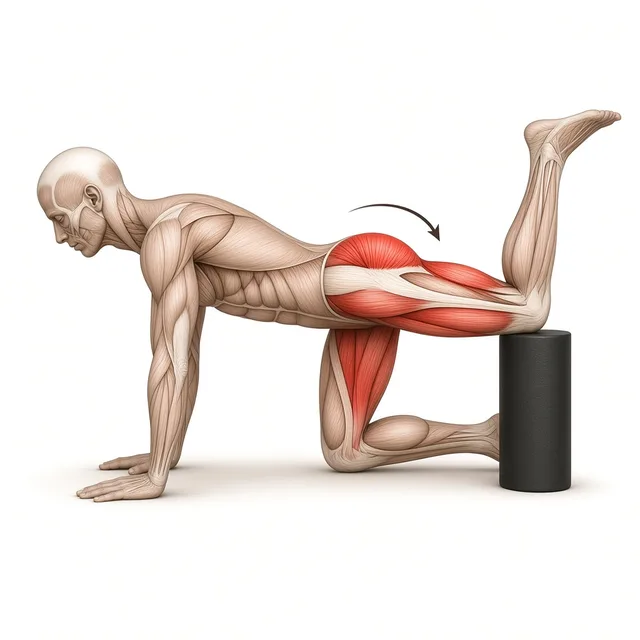
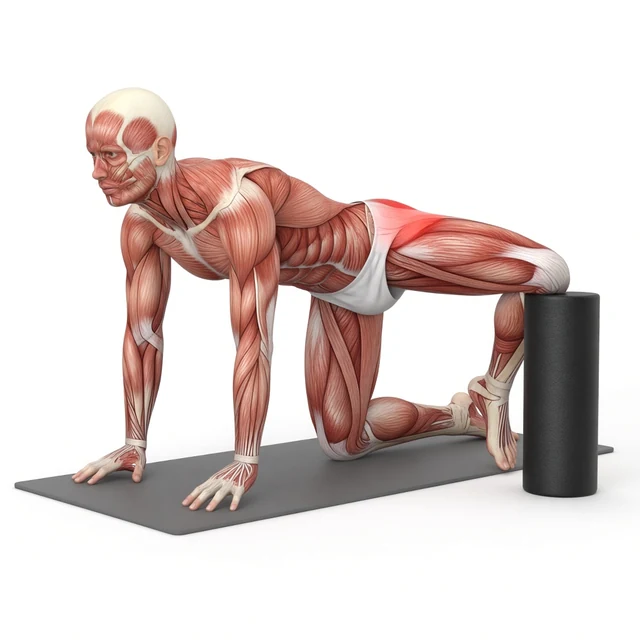
Update 2026-11-09

diff --git a/mobility.js b/mobility.js
@@ -1,11 +1,11 @@
-/* Voccola Gym Log – Hüft-Beweglichkeit (v1.7.25). Eigene Daten in localStorage 'vgl-mob', berührt Trainingsdaten nicht. */
+/* Voccola Gym Log – Hüft-Beweglichkeit (v1.7.26). Eigene Daten in localStorage 'vgl-mob', berührt Trainingsdaten nicht. */
 'use strict';
 (function () {
 const KEY = 'vgl-mob';
 const ld = () => { try { return Object.assign({ today: null, history: [] }, JSON.parse(localStorage.getItem(KEY) || '{}')); } catch (_) { return { today: null, history: [] }; } };
 const sv = d => { try { localStorage.setItem(KEY, JSON.stringify(d)); } catch (_) { } };
 const tk = () => dkey();
-function day() { const d = ld(); if (!d.today || d.today.date !== tk()) { d.today = { date: tk(), done: {}, sets: {}, log: {} }; sv(d); } return d; }
+function day() { const d = ld(); if (!d.today || d.today.date !== tk()) { d.today = { date: tk(), done: {}, sets: {}, log: {}, extra: { m: [], a: [] } }; sv(d); } if (!d.today.extra) d.today.extra = { m: [], a: [] }; if (!Array.isArray(d.today.extra.m)) d.today.extra.m = []; if (!Array.isArray(d.today.extra.a)) d.today.extra.a = []; return d; }
 
 /* ---------- Strichfiguren ---------- */
 const FG = '#ececee', FAR = '#8d8d94', ARW = '#D4AF37', GR = '#3a3a40';
@@ -103,7 +103,7 @@ const EX = [
     steps: ['Rückenlage, Arme senkrecht zur Decke, Beine angehoben: Hüfte und Knie 90°.', 'Unteren Rücken sanft in den Boden drücken – er bleibt die ganze Zeit flach.', 'Ausatmen: rechten Arm nach hinten und linkes Bein nach vorn lang strecken, knapp über dem Boden.', 'Zurück in die Mitte, Seite wechseln.'],
     cues: ['Rücken flach am Boden – das ist die eigentliche Übung', 'Langsam ausatmen beim Strecken', 'Nur so weit strecken, wie der Rücken unten bleibt'],
     err: ['Hohlkreuz beim Strecken', 'Luft anhalten', 'Zu schnell, Schwung'] },
-  { id: 'rolle', img: 'rollschien', n: 'Bein über die Rolle', sub: 'Sitzend · Blackroll · Hüfte aktiv & kontrolliert', dose: '10 Wdh. pro Seite', t: 'reps', sets: 1, reps: 10, ps: true,
+  { id: 'rolle', n: 'Bein über die Rolle', sub: 'Sitzend · Blackroll · Hüfte aktiv & kontrolliert', dose: '10 Wdh. pro Seite', t: 'reps', sets: 1, reps: 10, ps: true,
     steps: ['Aufrecht sitzen (Stuhl oder Boden), die Blackroll liegt quer vor dem Fuß am Boden.', 'Oberkörper bleibt aufrecht, Hände stützen seitlich oder an den Oberschenkeln.', 'Ein Bein kontrolliert anheben und über die Blackroll führen, ohne Schwung.', 'Langsam wieder zurückführen. 10 Wdh., dann Seite wechseln. Fortgeschritten: Rolle höher stellen (hochkant).'],
     cues: ['Rücken lang, Bauch leicht fest – das Becken bleibt ruhig', 'Langsam heben, langsam zurück', 'Fortgeschritten: Rolle höher stellen', 'Kein Vorbeugen – bleib aufrecht'],
     err: ['Mit Schwung über die Rolle schleudern', 'Oberkörper kippt zur Seite oder nach hinten', 'Rundrücken'] }
@@ -115,7 +115,7 @@ const EVE = [
   { id: 'tuer', eve: 1, n: 'Seitdehnung im Türrahmen', sub: 'Abend · seitliche Rumpfmuskulatur, Hüftabduktoren, Außenhüfte', dose: '3×60 s links, 2×60 s rechts', t: 'time', sets: 3, setsL: 3, setsR: 2, secs: 60, ps: true,
     steps: ['Aufwärmen: beide Hände seitlich im Türrahmen einspannen, 5–8 langsame Hüftkreise bzw. Pendeln links-rechts.', 'Im Türrahmen stehen, Beine überkreuzen (für die Dehnung der linken Seite: rechtes Bein vor das linke).', 'Linke Hand greift oben an den Türrahmen.', 'Hüfte langsam nach links/außen rausschieben und den Oberkörper zur Gegenseite ziehen, bis Zug in der linken Flanke, im unteren Rücken und an der Außenhüfte entsteht.', 'Ruhig in die Flanke atmen, 60 s halten. Seite wechseln.'],
     cues: ['Nicht nach vorne kippen – Rumpf bleibt in einer Ebene', 'Bauch leicht fest', 'Nur bis angenehmer Zug', 'Kein Kribbeln/Ausstrahlen ins Bein (Bandscheibe) – sonst lockerer'], err: ['Ins Hohlkreuz fallen', 'Schulter hochziehen', 'Ruckartig wippen'] },
-  { id: 'couch', eve: 1, img: 'hipflex', n: 'Couch Stretch', sub: 'Abend · Hüftbeuger & Quadrizeps', dose: '1×2 min pro Seite', t: 'time', sets: 1, secs: 120, ps: true,
+  { id: 'couch', eve: 1, n: 'Couch Stretch', sub: 'Abend · Hüftbeuger & Quadrizeps', dose: '1×2 min pro Seite', t: 'time', sets: 1, secs: 120, ps: true,
     steps: ['Knie auf einer weichen Unterlage (Kissen/Matte) vor dem Sofa absetzen, vorderer Fuß flach, Knie ca. 90°.', 'Den hinteren Fuß erhöht aufs Sofa legen, Schienbein an der Lehne.', 'Gesäß der hinteren Seite fest anspannen und das Becken leicht nach hinten kippen, dann Becken nach vorn schieben, bis vorne an Hüfte und Oberschenkel ein Zug kommt.', 'Oberkörper aufrecht, 2 min ruhig atmen. Seite wechseln.'],
     cues: ['Dehnung vorne an Hüfte und Oberschenkel des hinteren Beins', 'Rippen unten, Bauch leicht fest – nicht ins Hohlkreuz', 'Knie weiter vom Sofa weg = sanfter', 'Nur bis angenehmer Zug – nichts erzwingen'],
     err: ['Ins Hohlkreuz ausweichen', 'Knieschmerz ignorieren', 'Zu aggressiv ins Sofa pressen'] },
@@ -250,7 +250,7 @@ const im = ex => ex.img || ex.id;
 /* ---------- v1.7.15: Tages-Rotation ----------
    Jeder Block hat feste Kern-Übungen (core: 1, täglich) + einen Wechsel-Pool. Aus dem Pool kommen pro Tag k Übungen,
    deterministisch nach Datum (Tag-Nr. × k mod Poolgröße → lückenlos, jede Übung kommt regelmäßig dran). */
-const BLK = { m: { pool: EX, k: 2 }, w: { pool: ROT, k: 3 }, a: { pool: EVE, k: 5 }, f: { pool: FAS, k: 3 } };
+const BLK = { m: { pool: EX, k: 2 }, w: { pool: ROT, k: 3 }, a: { pool: EVE, k: 3 }, f: { pool: FAS, k: 3 } };
 const dayNum = key => { const [y, m, d] = key.split('-').map(Number); return Math.floor(Date.UTC(y, m - 1, d) / 864e5); };
 function lineup(b, key) { const B = BLK[b]; const rot = B.pool.filter(e => !e.core); const n = dayNum(key), m = rot.length;
   if (!m || B.k >= m) return B.pool.slice(); const s0 = (n * B.k) % m; const pick = new Set(Array.from({ length: B.k }, (_, i) => rot[(s0 + i) % m]));
@@ -259,6 +259,18 @@ const isRotToday = (e, b) => b !== 'w' && !e.core;
 const blockOf = e => e.eve ? 'a' : e.fas ? 'f' : e.rot ? 'w' : EX.includes(e) ? 'm' : null;
 // heutige Liste eines Blocks: Tages-Lineup + heute bereits Abgehaktes (z. B. vor dem Update), damit nichts verschwindet
 function todayList(b, d) { const lu = lineup(b, tk()); return lu.concat(BLK[b].pool.filter(e => !lu.includes(e) && d.today.done[e.id])); }
+
+/* ---------- v1.7.26: optionale Zusatzübungen (Morgen/Abend) ----------
+   Extras liegen in d.today.extra.{m|a}; zählen NICHT zum Block-Zähler, werden aber geloggt. */
+const extraPool = b => b === 'm' ? [...EX, ...ROT] : b === 'a' ? [...EVE, ...RET] : [];
+function extrasOf(b, d) { const ids = (d.today.extra && d.today.extra[b]) || []; return ids.map(byId).filter(Boolean); }
+function blockList(b, d) {
+  const base = todayList(b, d); const seen = new Set(base.map(e => e.id));
+  return base.concat(extrasOf(b, d).filter(e => !seen.has(e.id)));
+}
+function planCount(b, d) { return lineup(b, tk()).length; } // Zähler ohne Extras
+function isExtra(ex, b, d) { return !!(d.today.extra && (d.today.extra[b] || []).includes(ex.id)) && !lineup(b, tk()).some(e => e.id === ex.id); }
+
 // Plan eines gespeicherten Tages: neue Einträge haben h.lineup, ältere (vor v1.7.15) bekommen den damaligen Plan
 function planOf(h, b) { if (h.lineup && h.lineup[b]) return h.lineup[b].map(byId).filter(Boolean);
   return b === 'm' ? EX.slice() : b === 'w' ? rotForOld(h.date) : b === 'a' ? EVE.filter(e => e.id !== 'psoasreset' && e.id !== 'kniefersenrock' && e.id !== 'hipflexstand' && e.id !== 'hipwallrot' && e.id !== 'hipwallstep') : FAS.slice(); }
@@ -328,17 +340,23 @@ function markDone(id, val) { const d = day(); if (val) { d.today.done[id] = true
 
 /* ---------- Views ---------- */
 function row(ex, d, i, b) {
-  const ok = !!d.today.done[ex.id];
+  const ok = !!d.today.done[ex.id]; const xtra = (b === 'm' || b === 'a') && isExtra(ex, b, d);
   return `<div class="card mob-row ${ok ? 'ok' : ''}" data-act="go" data-to="#/mob/${ex.id}">
-    <button class="mob-chk ${ok ? 'on' : ''}" data-act="mobChk" data-id="${ex.id}" aria-label="Abhaken">${ok ? '✓' : (ex.eve ? '☾' : ex.fas ? '◎' : ex.rot ? '🔄' : i)}</button>
+    <button class="mob-chk ${ok ? 'on' : ''}" data-act="mobChk" data-id="${ex.id}" aria-label="Abhaken">${ok ? '✓' : (xtra ? '＋' : ex.eve ? '☾' : ex.fas ? '◎' : ex.rot ? '🔄' : i)}</button>
     <div class="mob-thumb"><img class="mob-thumb-img" src="./assets/mob/${im(ex)}.webp" alt="" loading="lazy"></div>
-    <div class="mob-rt"><b>${esc(ex.n)}</b><div class="muted small">${esc(ex.dose)}</div>${isRotToday(ex, b) ? '<div class="mob-rotl">↻ heute im Wechsel</div>' : ''}</div><span class="mob-go">›</span></div>`;
+    <div class="mob-rt"><b>${esc(ex.n)}</b><div class="muted small">${esc(ex.dose)}</div>${xtra ? '<div class="mob-rotl">＋ Zusatz (optional)</div>' : isRotToday(ex, b) ? '<div class="mob-rotl">↻ heute im Wechsel</div>' : ''}</div><span class="mob-go">›</span></div>`;
 }
 function viewList() {
-  const d = day(); const s = stats(); const MT = todayList('m', d), RT = todayList('w', d), ET = todayList('a', d), FT = todayList('f', d);
-  const cnt = l => l.filter(e => d.today.done[e.id]).length; const nDone = cnt(MT), rDone = cnt(RT), eDone = cnt(ET), fDone = cnt(FT);
+  const d = day(); const s = stats(); const MT = blockList('m', d), RT = todayList('w', d), ET = blockList('a', d), FT = todayList('f', d);
+  const mPlan = planCount('m', d), aPlan = planCount('a', d);
+  const cntPlan = (l, planN) => Math.min(planN, l.filter(e => d.today.done[e.id] && !isExtra(e, l === MT ? 'm' : 'a', d)).length);
+  // Erledigt-Zähler nur über Plan (ohne Extras)
+  const nDone = lineup('m', tk()).filter(e => d.today.done[e.id]).length;
+  const rDone = RT.filter(e => d.today.done[e.id]).length;
+  const eDone = lineup('a', tk()).filter(e => d.today.done[e.id]).length;
+  const fDone = FT.filter(e => d.today.done[e.id]).length;
   const nCore = b => BLK[b].pool.filter(e => e.core).length;
-  const st = (n, t) => n >= t ? '<span class="mob-st ok">✓ heute erledigt</span>' : n ? `<span class="mob-st part">${n}/${t} · läuft</span>` : '<span class="mob-st">noch offen</span>';
+  const st = (n, tot) => n >= tot ? '<span class="mob-st ok">✓ heute erledigt</span>' : n ? `<span class="mob-st part">${n}/${tot} · läuft</span>` : '<span class="mob-st">noch offen</span>';
   const hist = [...d.history].reverse().slice(0, 8).map(h => `<div class="mob-h"><span>${WD[fromKey(h.date).getDay()]} ${dateDE(h.date)}</span><span class="muted small">${h.note ? '📝 ' : ''}${h.done.filter(x => EX.some(e => e.id === x)).length}/${planOf(h, 'm').length} Übungen${h.done.some(x => ROT.some(e => e.id === x)) ? ' · 🔄 Abwechslung' : ''}${h.done.some(x => [...EVE, ...RET].some(e => e.id === x)) ? ' · ☾ Abend' : ''}${h.done.some(x => FAS.some(e => e.id === x)) ? ' · ◎ Faszien' : ''}</span><button class="btn btn-ghost btn-sm" style="width:auto;padding:4px 10px;margin-left:6px" data-act="mobExp" data-date="${h.date}">Exportieren</button></div>`).join('') || '<div class="muted small">Noch keine Einheit – heute ist ein guter Tag zum Starten 🙂</div>';
   return {
     html: topbar('Hüft-Beweglichkeit', 'Dehnung & Gesundheit', null) + `
@@ -348,15 +366,17 @@ function viewList() {
       <div class="card"><div class="mob-big">${s.week}</div><div class="muted small">diese Woche</div></div>
     </div>
     <div class="card mob-note">⚠ <b>Morgens kein langes Vorbeugen</b> (Bandscheibe). Nichts erzwingen – <b>schmerzfrei bleiben</b>. Bei ausstrahlendem Schmerz abbrechen.</div>
-    <div class="mob-prog"><div style="width:${nDone / MT.length * 100}%"></div></div>
+    <div class="mob-prog"><div style="width:${mPlan ? (nDone / mPlan * 100) : 0}%"></div></div>
     <div class="card mob-today"><b>Heute</b> · ${s.todayDone ? '<span class="mob-st ok">✓ Einheit abgeschlossen</span>' : '<span class="mob-st">Einheit noch offen</span>'}
-      <div class="mob-tl"><span>☀ Morgen-Routine</span>${st(nDone, MT.length)}</div><div class="mob-tl"><span>🔄 Abwechslung</span>${st(rDone, RT.length)}</div><div class="mob-tl"><span>☾ Abend</span>${st(eDone, ET.length)}</div><div class="mob-tl"><span>◎ Faszien</span>${st(fDone, FT.length)}</div></div>
-    <div class="sec-h muted small" style="margin:10px 2px 2px">☀ MORGEN-ROUTINE · ${nDone}/${MT.length} erledigt</div><div class="mob-when">Morgens nach dem Aufstehen · ${nCore('m')} täglich + ${MT.length - nCore('m')} im Wechsel</div>
+      <div class="mob-tl"><span>☀ Morgen-Routine</span>${st(nDone, mPlan)}</div><div class="mob-tl"><span>🔄 Abwechslung</span>${st(rDone, RT.length)}</div><div class="mob-tl"><span>☾ Abend</span>${st(eDone, aPlan)}</div><div class="mob-tl"><span>◎ Faszien</span>${st(fDone, FT.length)}</div></div>
+    <div class="sec-h muted small" style="margin:10px 2px 2px">☀ MORGEN-ROUTINE · ${nDone}/${mPlan} erledigt</div><div class="mob-when">Morgens nach dem Aufstehen · ${nCore('m')} täglich + ${mPlan - nCore('m')} im Wechsel</div>
     ${MT.map((e, i) => row(e, d, i + 1, 'm')).join('')}
+    <button class="btn btn-outline-gold btn-sm" data-act="mobExtra" data-b="m" style="margin:4px 0 8px">＋ Zusatzübung</button>
     <div class="sec-h muted small" style="margin:18px 2px 2px">🔄 ABWECHSLUNG · ${rDone}/${RT.length} erledigt</div><div class="mob-when">Heute (${WD[new Date().getDay()]}) · täglich 3 andere – in ${Math.ceil(ROT.length / 3)} Tagen alle ${ROT.length}</div>
     ${RT.map((e, i) => row(e, d, i + 1, 'w')).join('')}
-    <div class="sec-h muted small" style="margin:18px 2px 2px">☾ ABEND (OPTIONAL) · ${eDone}/${ET.length} erledigt</div><div class="mob-when">Abends vor dem Schlafen · ${nCore('a')} täglich + ${ET.length - nCore('a')} im Wechsel</div>
+    <div class="sec-h muted small" style="margin:18px 2px 2px">☾ ABEND (OPTIONAL) · ${eDone}/${aPlan} erledigt</div><div class="mob-when">Abends vor dem Schlafen · ${nCore('a')} täglich + ${aPlan - nCore('a')} im Wechsel</div>
     ${ET.map((e, i) => row(e, d, i + 1, 'a')).join('')}
+    <button class="btn btn-outline-gold btn-sm" data-act="mobExtra" data-b="a" style="margin:4px 0 8px">＋ Zusatzübung</button>
     <div class="sec-h muted small" style="margin:18px 2px 2px">◎ FASZIEN (OPTIONAL)</div><div class="mob-when">Blackroll · Duoball/Bälle · Shakti-Matte – ideal abends · ${nCore('f')} täglich + ${FT.length - nCore('f')} im Wechsel</div>
     ${FT.map((e, i) => row(e, d, i + 1, 'f')).join('')}
     <div style="height:6px"></div>
@@ -367,7 +387,7 @@ function viewList() {
 }
 function viewDetail(id) {
   const ex = byId(id); if (!ex) { location.hash = '#/mob'; return { html: '' }; }
-  const d = day(); const ok = !!d.today.done[id]; const bk = blockOf(ex); const tl = bk ? todayList(bk, d) : []; const list = tl.includes(ex) ? tl : [ex]; const idx = list.indexOf(ex); const next = list[idx + 1];
+  const d = day(); const ok = !!d.today.done[id]; const bk = blockOf(ex); const tl = bk ? ((bk === 'm' || bk === 'a') ? blockList(bk, d) : todayList(bk, d)) : []; const list = tl.includes(ex) ? tl : [ex]; const idx = list.indexOf(ex); const next = list[idx + 1];
   let tool;
   if (ex.t === 'time') {
     tInit(ex); const C = 2 * Math.PI * 88;
@@ -402,6 +422,31 @@ window.viewMob = a => a ? viewDetail(a) : viewList();
 
 /* ---------- Aktionen ---------- */
 Object.assign(A, {
+  mobExtra: dd => {
+    const b = dd.b; const d = day(); const title = b === 'm' ? 'Morgen – Zusatzübung' : 'Abend – Zusatzübung';
+    const inList = new Set(blockList(b, d).map(e => e.id));
+    const pool = extraPool(b).filter(e => !lineup(b, tk()).some(x => x.id === e.id)); // alles außer dem heutigen Plan
+    const extras = new Set((d.today.extra[b] || []));
+    const rows = pool.map(e => {
+      const on = extras.has(e.id) || inList.has(e.id) && extras.has(e.id);
+      const active = (d.today.extra[b] || []).includes(e.id);
+      return `<div class="pick-row ${active ? 'in' : ''}" style="display:flex;align-items:center;gap:10px;padding:10px 4px;border-bottom:1px solid rgba(255,255,255,.06)">
+        <img src="./assets/mob/${im(e)}.webp" alt="" style="width:44px;height:44px;border-radius:8px;object-fit:cover;background:#fdfbf7" loading="lazy">
+        <div style="flex:1;min-width:0"><b style="font-size:14px">${esc(e.n)}</b><div class="muted small">${esc(e.dose)}</div></div>
+        <button class="pick-btn" data-act="mobExtraToggle" data-b="${b}" data-id="${e.id}" aria-label="${active ? 'Entfernen' : 'Hinzufügen'}">${active ? '✓' : '＋'}</button></div>`;
+    }).join('') || '<div class="muted small">Keine weiteren Übungen im Pool.</div>';
+    openSheet(`<h3>${title}</h3><div class="muted small" style="margin-bottom:10px">＋ fügt eine optionale Zusatzübung hinzu. Sie erscheint in der Liste, zählt aber <b>nicht</b> zum ${b === 'm' ? 'Morgen' : 'Abend'}-Zähler. Abgehakt wird sie trotzdem geloggt.</div>
+      <div style="max-height:55vh;overflow:auto">${rows}</div>
+      <div style="height:12px"></div><button class="btn btn-red" data-act="mobExtraDone">Fertig</button>`);
+  },
+  mobExtraToggle: dd => {
+    const d = day(); const b = dd.b; const ids = d.today.extra[b] || (d.today.extra[b] = []);
+    const i = ids.indexOf(dd.id);
+    if (i >= 0) { ids.splice(i, 1); toast('Zusatz entfernt', 1200); }
+    else { ids.push(dd.id); toast('„' + byId(dd.id).n + '“ als Zusatz ✓', 1400); }
+    sv(d); A.mobExtra({ b });
+  },
+  mobExtraDone: () => { closeSheet(); render(true); },
   mobChk: (dd, el) => { const d = day(); if (d.today.done[dd.id] && !confirm('Heute schon erledigt ✓ – wirklich wieder offen machen?')) return; markDone(dd.id, !d.today.done[dd.id]); render(true); },
   mobSet: dd => { const ex = byId(dd.id); const d = day(); if (d.today.done[dd.id]) { toast('Heute schon erledigt ✓', 1400); return; } const i = +dd.i; const cur = d.today.sets[dd.id] || 0; d.today.sets[dd.id] = i < cur ? i : i + 1; const tot = ex.sets * (ex.ps ? 2 : 1);
     if (d.today.sets[dd.id] >= tot) { d.today.done[dd.id] = true; beep(2, 990); toast('Übung geschafft ✓', 1400); } else try { navigator.vibrate && navigator.vibrate(40); } catch (_) { }
@@ -411,8 +456,8 @@ Object.assign(A, {
   mobFinish: () => { const d = day(); const done = Object.keys(d.today.done);
     if (!done.length && !confirm('Noch keine Übung abgehakt. Trotzdem als Einheit speichern?')) return;
     const old = d.history.find(h => h.date === tk()) || {}; d.history = d.history.filter(h => h.date !== tk());
-    const lineupIds = {}; Object.keys(BLK).forEach(b => { lineupIds[b] = todayList(b, d).map(e => e.id); });
-    d.history.push({ date: tk(), ts: Date.now(), lineup: lineupIds, done, sets: Object.assign({}, d.today.sets), log: JSON.parse(JSON.stringify(d.today.log || {})), note: old.note || '' }); d.history.sort((a, b) => a.date < b.date ? -1 : 1); sv(d);
+    const lineupIds = {}; Object.keys(BLK).forEach(b => { lineupIds[b] = lineup(b, tk()).map(e => e.id); });
+    d.history.push({ date: tk(), ts: Date.now(), lineup: lineupIds, extra: JSON.parse(JSON.stringify(d.today.extra || { m: [], a: [] })), done, sets: Object.assign({}, d.today.sets), log: JSON.parse(JSON.stringify(d.today.log || {})), note: old.note || '' }); d.history.sort((a, b) => a.date < b.date ? -1 : 1); sv(d);
     beep(2, 990); const s = stats(); toast(`Stark, Markus! ${s.streak} ${s.streak === 1 ? 'Tag' : 'Tage'} in Folge 🔥`, 2200); render(true); setTimeout(() => A.mobExp({ date: tk() }), 400); },
   mobExp: dd => { const d = ld(); const h = d.history.find(x => x.date === dd.date); if (!h) return toast('Eintrag nicht gefunden');
     openSheet(`<h3>Einheit exportieren</h3><div class="muted small">${WD[fromKey(h.date).getDay()]} ${dateDE(h.date)} · ${h.done.length} ${h.done.length === 1 ? 'Übung' : 'Übungen'}</div>

diff --git a/sw.js b/sw.js
@@ -1,11 +1,11 @@
-/* Voccola Gym Log – Service Worker (v1.7.25: hipwallrot fix + hipwallstep) */
-const CACHE = 'vgl-v1.7.25';
+/* Voccola Gym Log – Service Worker (v1.7.26: image fixes + Abend k=3 + Zusatz) */
+const CACHE = 'vgl-v1.7.26';
 const ASSETS = ['./', './index.html', './styles.css', './app.js', './mobility.js', './manifest.webmanifest',
   './icons/icon-192.png', './icons/icon-512.png', './icons/apple-touch-icon.png', './icons/icon-maskable-512.png', './assets/dumbbell.webp', './assets/keepawake.mp4',
   './assets/ex/b-fly-schraeg-kabel.webp', './assets/ex/bauch-crunch-maschine.webp', './assets/ex/r-facepull.webp', './assets/ex/r-revfly.webp', './assets/ex/r-row-incline-kabel.webp', './assets/ex/r-row-trapez-schraeg-breit.webp', './assets/ex/s-presse-kabel-liegend.webp', './assets/ex/s-seitheben-kabel-einarm.webp', './assets/ex/s-seitheben-vorgebeugt.webp', './assets/ex/x1.webp', './assets/ex/x10.webp', './assets/ex/x11.webp', './assets/ex/x12.webp', './assets/ex/x13.webp', './assets/ex/x14.webp', './assets/ex/x15.webp', './assets/ex/x16.webp', './assets/ex/x17.webp', './assets/ex/x18.webp', './assets/ex/x19.webp', './assets/ex/x2.webp', './assets/ex/x20.webp', './assets/ex/x21.webp', './assets/ex/x22.webp', './assets/ex/x23.webp', './assets/ex/x24.webp', './assets/ex/x25.webp', './assets/ex/x26.webp', './assets/ex/x27.webp', './assets/ex/x28.webp', './assets/ex/x3.webp', './assets/ex/x4.webp', './assets/ex/x5.webp', './assets/ex/x6.webp', './assets/ex/x7.webp', './assets/ex/x8.webp', './assets/ex/x9.webp', 
   './assets/mob/catcow.webp', './assets/mob/hamwalk.webp', './assets/mob/hipflex.webp', './assets/mob/wgs.webp', './assets/mob/n9090.webp', './assets/mob/bridge.webp', './assets/mob/birddog.webp', './assets/mob/deadbug.webp', './assets/mob/tuer.webp', './assets/mob/kneel.webp', './assets/mob/pigeon.webp', './assets/mob/turtle.webp', './assets/mob/froll_g.webp', './assets/mob/froll_t.webp', './assets/mob/ballpir.webp', './assets/mob/duoball.webp', './assets/mob/shakti.webp', './assets/mob/pigeonq.webp', './assets/mob/rollbecken.webp', './assets/mob/rollschien.webp', './assets/mob/rollknie.webp',
   './assets/mob/seq_catcow.webp', './assets/mob/seq_hamwalk.webp', './assets/mob/seq_hipflex.webp', './assets/mob/seq_wgs.webp', './assets/mob/seq_n9090.webp', './assets/mob/seq_bridge.webp', './assets/mob/seq_birddog.webp', './assets/mob/seq_deadbug.webp', './assets/mob/seq_tuer.webp', './assets/mob/seq_kneel.webp', './assets/mob/seq_pigeon.webp', './assets/mob/seq_turtle.webp', './assets/mob/seq_froll_g.webp', './assets/mob/seq_froll_t.webp', './assets/mob/seq_ballpir.webp', './assets/mob/seq_duoball.webp', './assets/mob/seq_shakti.webp', './assets/mob/seq_pigeonq.webp', './assets/mob/seq_rollbecken.webp', './assets/mob/seq_rollschien.webp', './assets/mob/seq_rollknie.webp',
-  './assets/mob/rbutter.webp', './assets/mob/seq_rbutter.webp', './assets/mob/kneechest.webp', './assets/mob/seq_kneechest.webp', './assets/mob/recpig.webp', './assets/mob/seq_recpig.webp', './assets/mob/halfhero.webp', './assets/mob/seq_halfhero.webp', './assets/mob/sphinx.webp', './assets/mob/seq_sphinx.webp', './assets/mob/sphinxrot.webp', './assets/mob/seq_sphinxrot.webp', './assets/mob/sidehip.webp', './assets/mob/seq_sidehip.webp', './assets/mob/sideadd.webp', './assets/mob/seq_sideadd.webp', './assets/mob/bearrock.webp', './assets/mob/seq_bearrock.webp', './assets/mob/beckenreset.webp', './assets/mob/seq_beckenreset.webp', './assets/mob/psoasreset.webp', './assets/mob/seq_psoasreset.webp', './assets/mob/kniefersenrock.webp', './assets/mob/seq_kniefersenrock.webp', './assets/mob/armbeinwisch.webp', './assets/mob/seq_armbeinwisch.webp', './assets/mob/halbfrosch.webp', './assets/mob/seq_halbfrosch.webp', './assets/mob/seitausfall.webp', './assets/mob/seq_seitausfall.webp', './assets/mob/hipflexstand.webp', './assets/mob/seq_hipflexstand.webp', './assets/mob/hipwallrot.webp', './assets/mob/seq_hipwallrot.webp', './assets/mob/hipwallstep.webp', './assets/mob/seq_hipwallstep.webp'];
+  './assets/mob/rbutter.webp', './assets/mob/seq_rbutter.webp', './assets/mob/kneechest.webp', './assets/mob/seq_kneechest.webp', './assets/mob/recpig.webp', './assets/mob/seq_recpig.webp', './assets/mob/halfhero.webp', './assets/mob/seq_halfhero.webp', './assets/mob/sphinx.webp', './assets/mob/seq_sphinx.webp', './assets/mob/sphinxrot.webp', './assets/mob/seq_sphinxrot.webp', './assets/mob/sidehip.webp', './assets/mob/seq_sidehip.webp', './assets/mob/sideadd.webp', './assets/mob/seq_sideadd.webp', './assets/mob/bearrock.webp', './assets/mob/seq_bearrock.webp', './assets/mob/beckenreset.webp', './assets/mob/seq_beckenreset.webp', './assets/mob/psoasreset.webp', './assets/mob/seq_psoasreset.webp', './assets/mob/kniefersenrock.webp', './assets/mob/seq_kniefersenrock.webp', './assets/mob/armbeinwisch.webp', './assets/mob/seq_armbeinwisch.webp', './assets/mob/halbfrosch.webp', './assets/mob/seq_halbfrosch.webp', './assets/mob/seitausfall.webp', './assets/mob/seq_seitausfall.webp', './assets/mob/hipflexstand.webp', './assets/mob/seq_hipflexstand.webp', './assets/mob/hipwallrot.webp', './assets/mob/seq_hipwallrot.webp', './assets/mob/hipwallstep.webp', './assets/mob/seq_hipwallstep.webp', './assets/mob/couch.webp', './assets/mob/seq_couch.webp', './assets/mob/rolle.webp', './assets/mob/seq_rolle.webp'];
 self.addEventListener('install', e => {
   e.waitUntil(caches.open(CACHE).then(c => c.addAll(ASSETS.map(u => new Request(u, { cache: 'reload' })))).then(() => self.skipWaiting()));
 });

diff --git a/app.js b/app.js
@@ -1,6 +1,6 @@
 /* Voccola Gym Log – Vanilla JS, offline, keine Tracker. Daten bleiben im Browser (IndexedDB). */
 'use strict';
-const APP_VERSION = '1.7.25';
+const APP_VERSION = '1.7.26';
 
 /* ---------- Helpers ---------- */
 const $ = (s, r = document) => r.querySelector(s);
@@ -118,6 +118,7 @@ const FREE_EX = [
 const FREE_PRESET = [['r-revfly', 'Reverse Butterfly (hintere Schulter)'], ['r-facepull', 'Face Pulls (Seil)'], ['s-seitheben-vorgebeugt', 'Vorgebeugtes Seitheben (hintere Schulter)'],
   ['s-seitheben-kabel-einarm', 'Seitheben Kabel einarmig'], ['x11', 'Schulterpresse Maschine'], ['bauch-crunch-maschine', 'Crunchmaschine'],
   ['x19', 'Knieheben am Beinstrecker'], ['x21', 'Seitbeugen'], ['x20', 'Crunch am Seilzug']];
+/* v1.7.26: Bilder hipwallrot/step/psoasreset/rollschien/rolle/couch; Abend-Wechsel 3; Zusatzübung-Picker Morgen/Abend → 9/9 */
 /* v1.7.25: hipwallrot korrigiert (Zac Cupples, 3×60 s) + hipwallstep Diagonalschritt Abend-Kern → 11/11; Bilder neu; Safety-Cues Folgetag */
 /* v1.7.24: Abend: Hüft-Rotation an der Wand (Seitlage) core in EVE → 10/10 (nach hipflexstand); Bilder hipwallrot.webp + seq_hipwallrot.webp */
 /* v1.7.23: Butterfly Reverse / Seilzug Reverse → Gesamtgewicht (nicht p.S.); Abend: Hüftbeuger-Dehnung im Stehen (Fuß erhöht) core in EVE → 9/9
